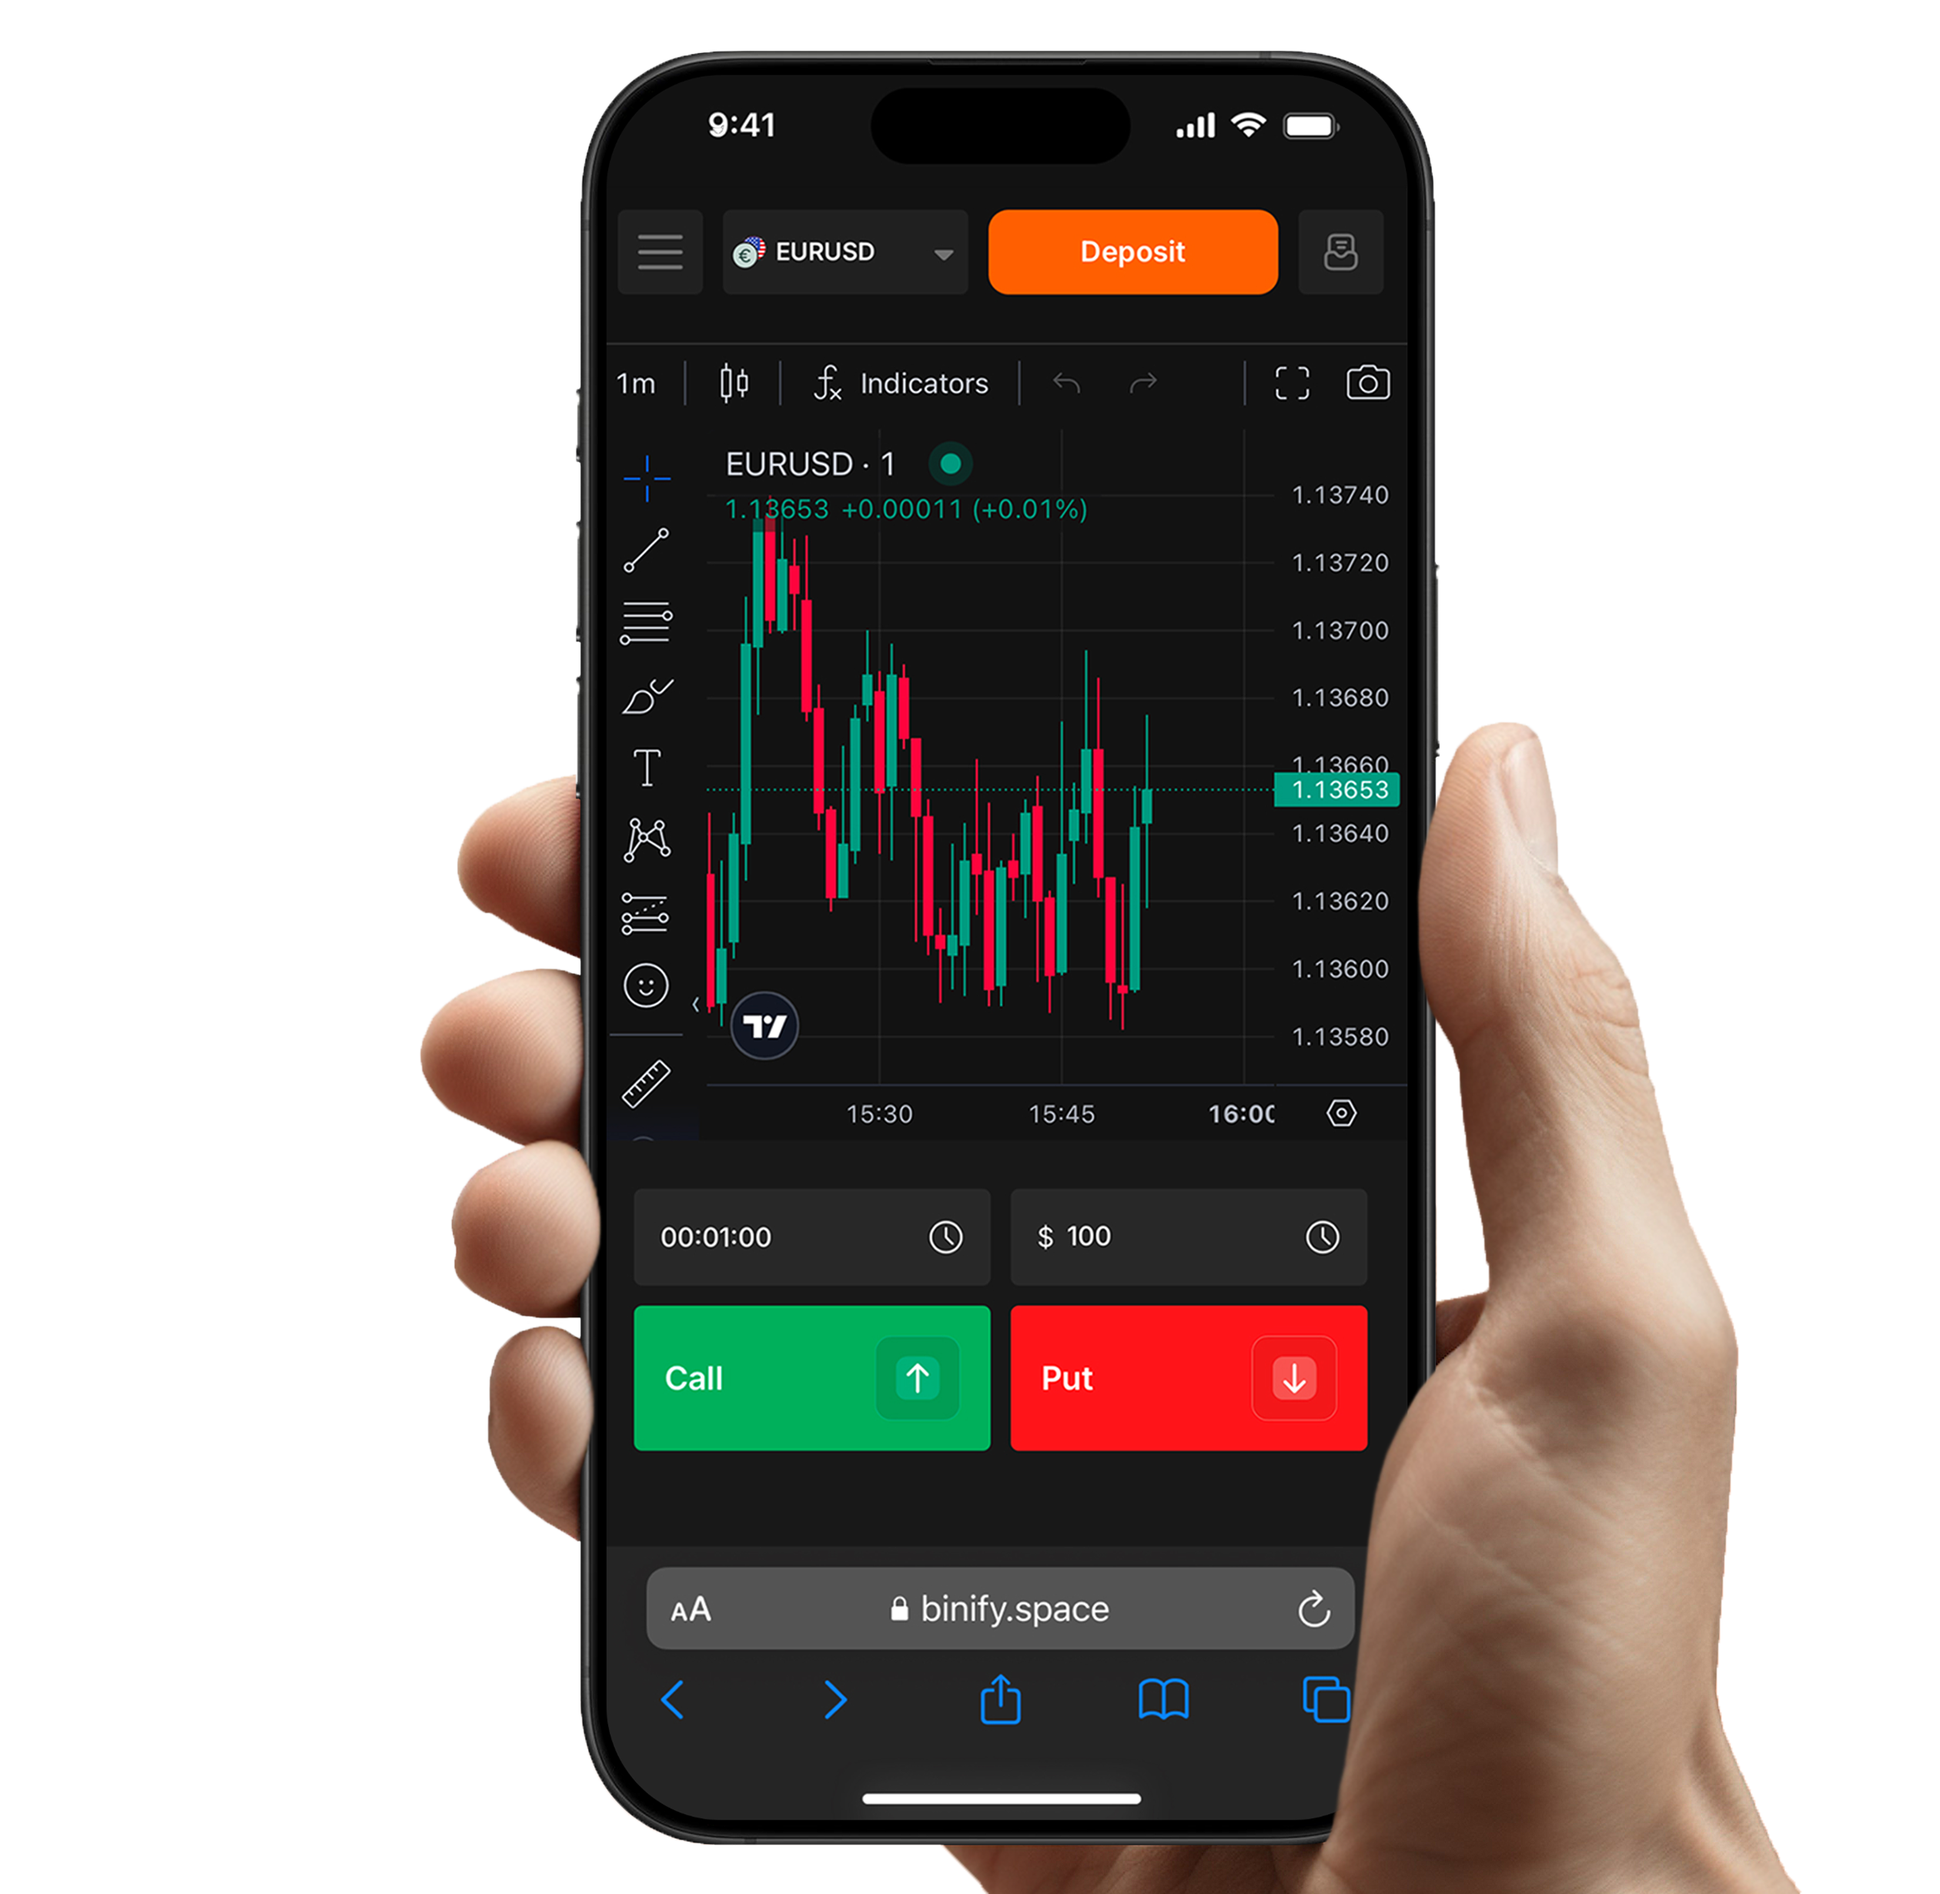
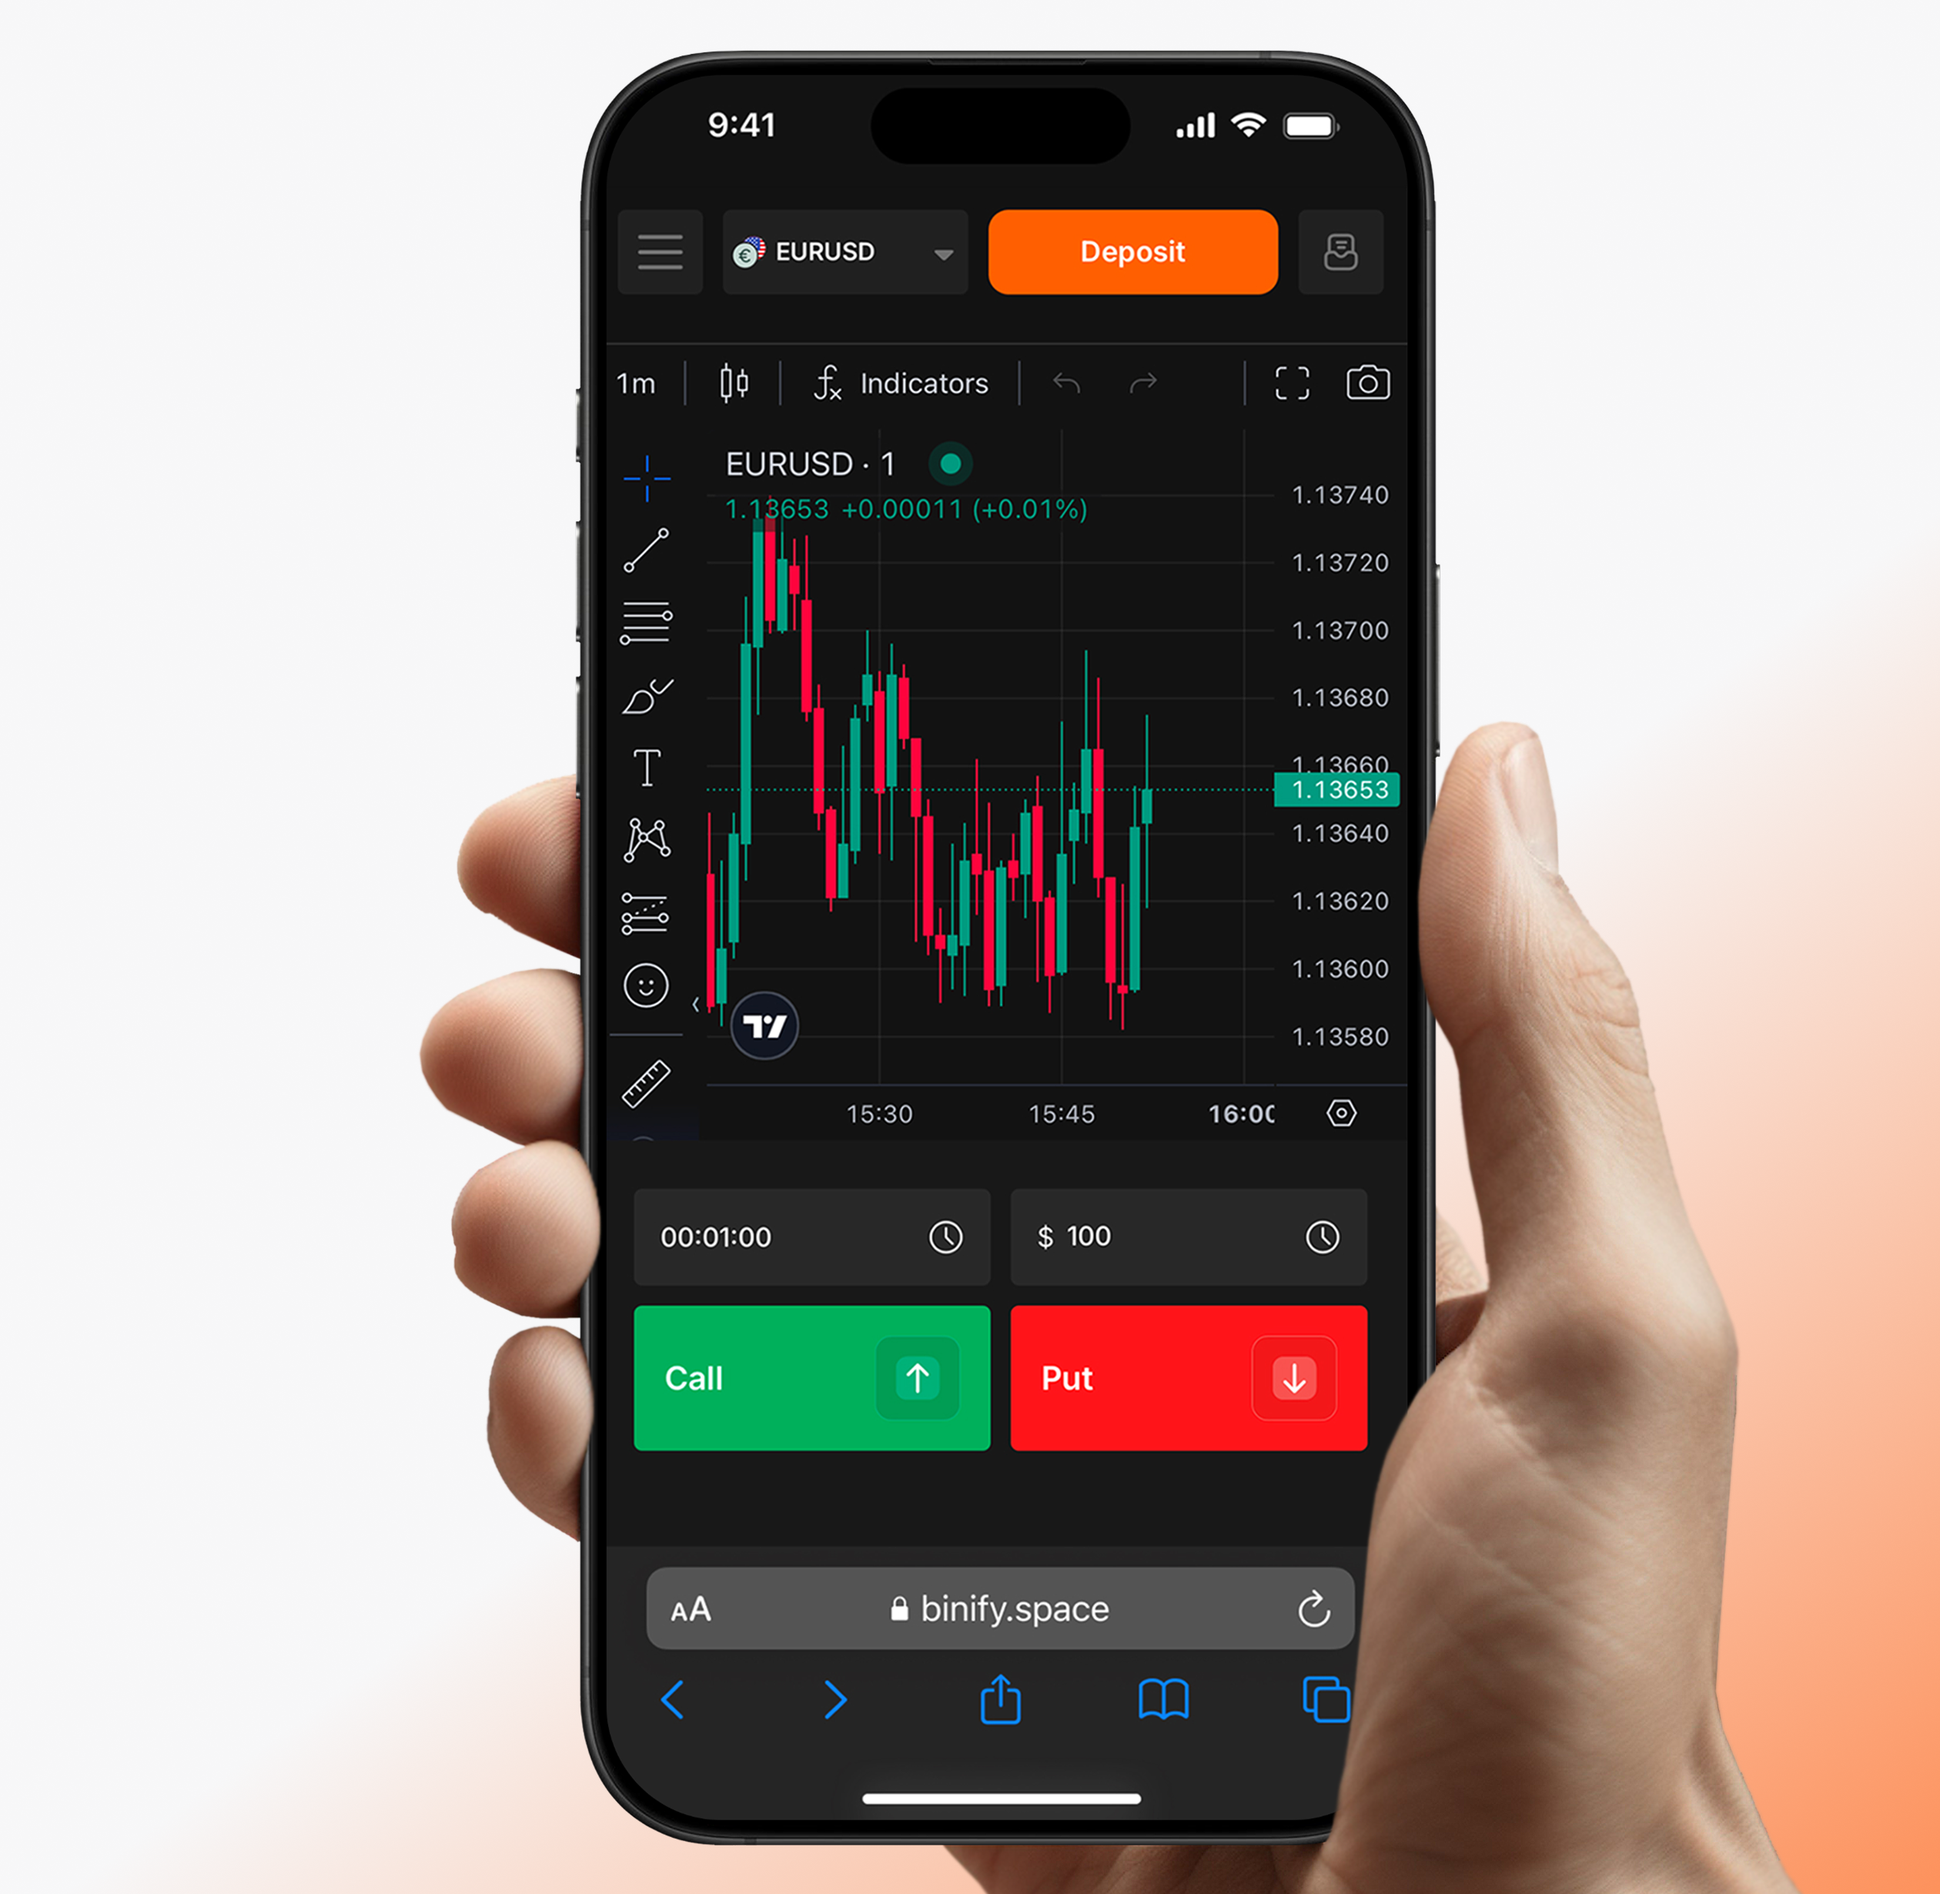
bugfix/image-update

Changed region(s): [[0.8048, 0.3398, 1.0, 1.0], [0.1238, 0.865, 0.5262, 1.0], [0.7429, 0.5561, 0.7738, 0.7106]]

diff --git a/src/styles/variables.sass b/src/styles/variables.sass
@@ -40,4 +40,4 @@ $font-base: 'Inter'
 $font-additional: 'Inter'
 
 
-$grid-breakpoints: (xs: 0,b375: 375px,sm: 428px,b680: 680px,md: 768px,lg: 958px,xl: 1280px,b1400: 1440px,b1600: 1600px,xxl: 1920px) !default
+$grid-breakpoints: (xs: 0,b375: 375px,sm: 428px,b680: 680px,md: 768px,lg: 958px,xl: 1280px,b1400: 1440px, b1560: 1560px, b1600: 1600px,xxl: 1920px) !default

diff --git a/src/components/pages/Main/index.sass b/src/components/pages/Main/index.sass
@@ -30,7 +30,7 @@
 
 .hero
 	position: relative
-	background: radial-gradient(circle at 90% 110%,#ff9966 0%,#ff9966 6%,#ffffff 25%)
+	background: #F7F7F8
 	z-index: 1
 	overflow: hidden
 	border-bottom-left-radius: 12px
